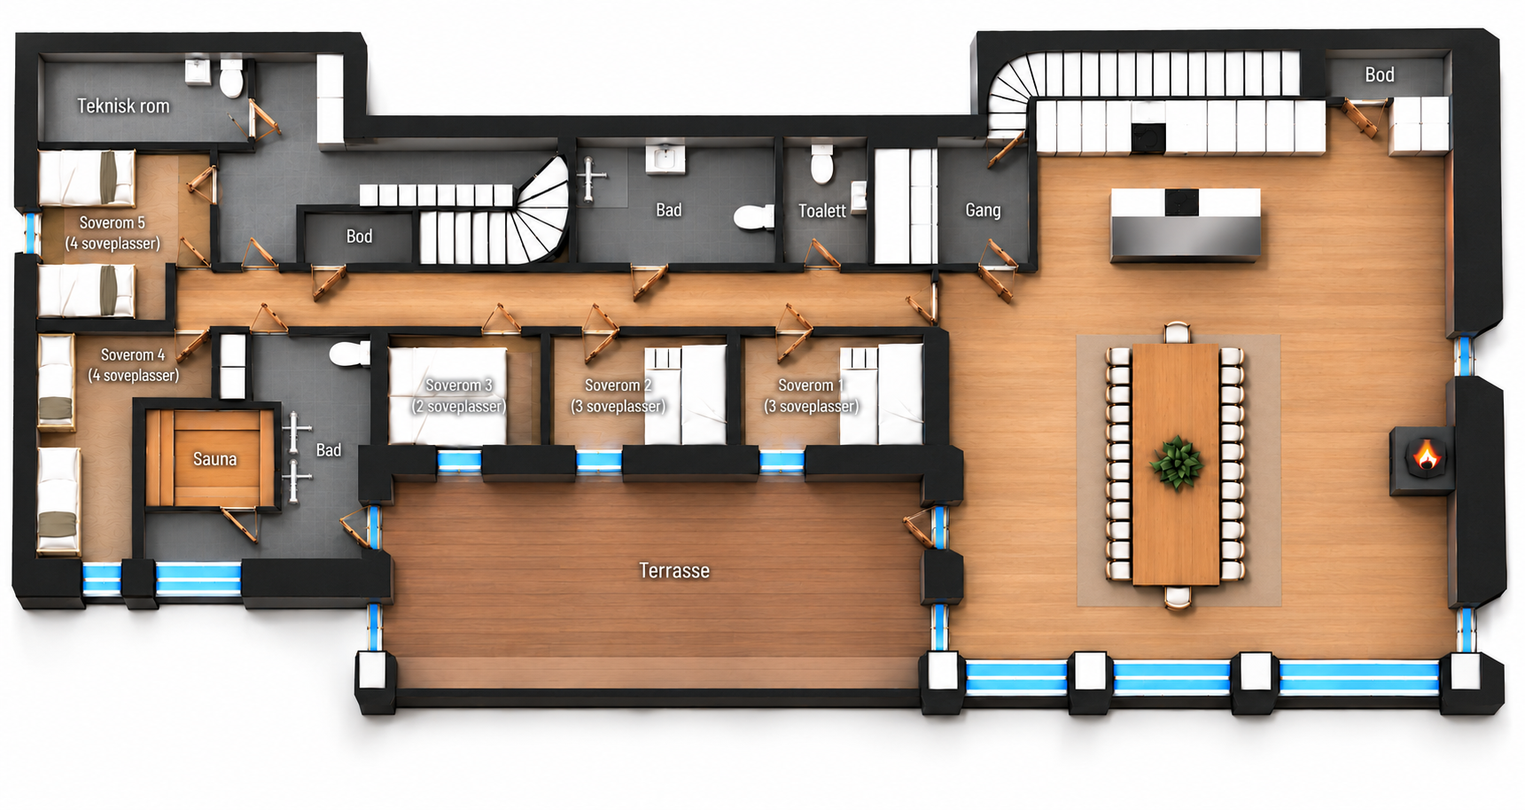
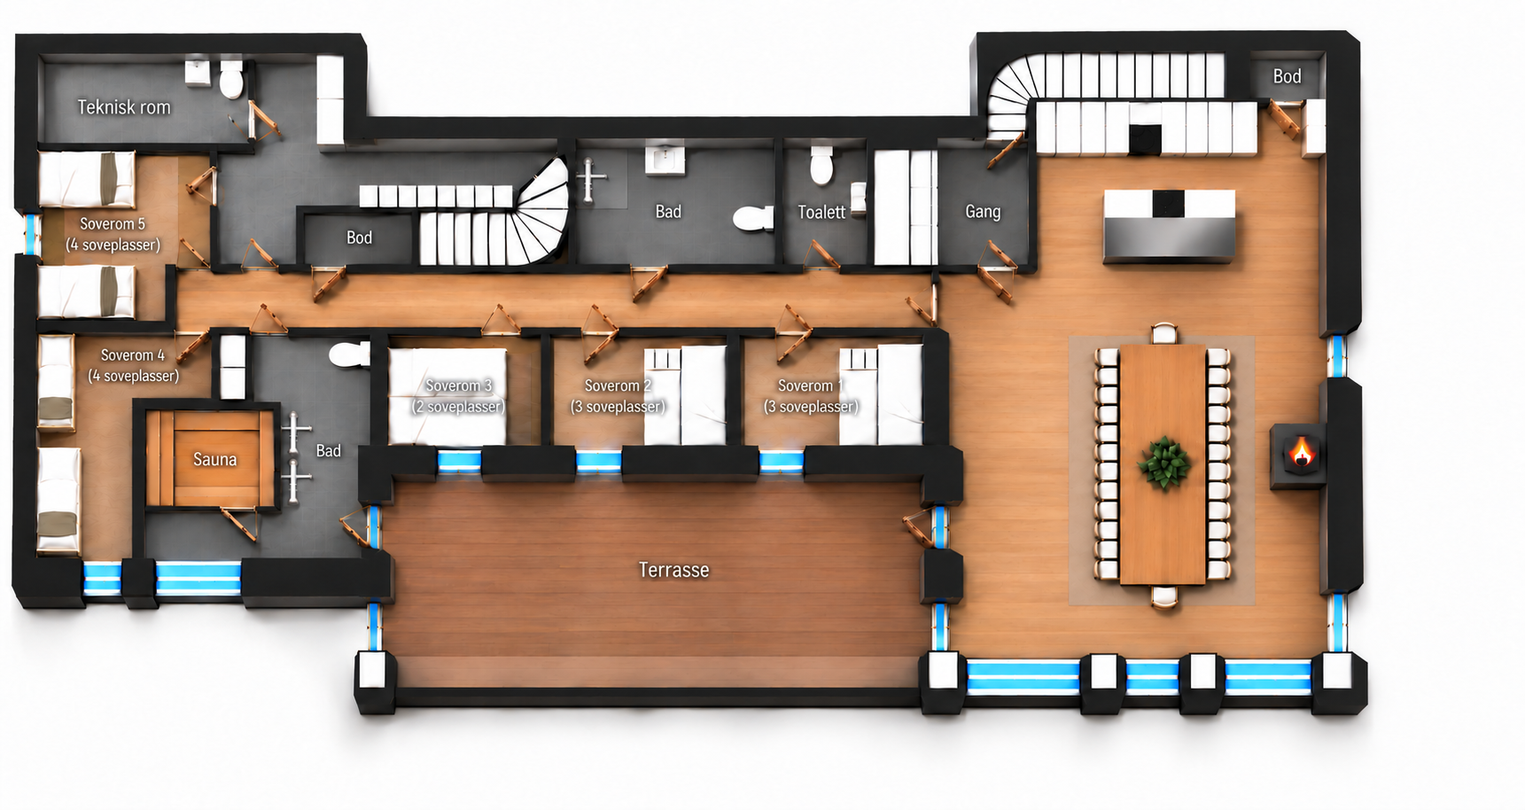
Update reserved nights and add returnable floor plan viewer

diff --git a/src/components/booking/BookingInbox.tsx b/src/components/booking/BookingInbox.tsx
@@ -90,7 +90,7 @@ export function OwnerInbox() {
       {view === "prices" ? <OwnerPriceCalendar prices={data.nightlyPrices} today={data.today} occupied={[...data.blocks, ...data.bookings.filter(b => b.status === "accepted")]} lang={lang} onSaved={reload} /> : <>
       <div className="bk-owner-stats"><span><b>{data.bookings.filter(b => b.status === "pending").length}</b>{w("Nye forespørsler", "Pending enquiries")}</span><span><b>{data.bookings.filter(b => b.status === "accepted").length}</b>{w("Bekreftede opphold", "Confirmed stays")}</span><span><b>{data.blocks.length}</b>{w("Blokkerte perioder", "Blocked periods")}</span></div>
       <div className="bk-inbox-layout"><aside className="bk-enquiries"><label>{w("Vis forespørsler", "Show enquiries")}<select value={filter} onChange={e => setFilter(e.target.value)}><option value="all">{w("Alle", "All")}</option>{(["pending", "accepted", "declined", "cancelled"] as BookingStatus[]).map(s => <option key={s} value={s}>{statusLabel(lang, s)}</option>)}</select></label>{!data.bookings.length && <p>{w("Nye forespørsler kommer hit. Åpne bookingsiden for å teste.", "New enquiries appear here. Open the booking page to test.")}</p>}{data.bookings.filter(b => filter === "all" || b.status === filter).map(b => <button className={`bk-enquiry ${selected === b.id ? "active" : ""}`} key={b.id} onClick={() => setSelected(b.id)}><span className={`bk-status ${b.status}`}>{statusLabel(lang, b.status)}</span><strong>{b.name}</strong><span>{formatDay(b.arrival, lang)} → {formatDay(b.departure, lang)}</span><small>{b.guests} {w("gjester", "guests")} · {b.messages.filter(m => m.author !== "system").length} {w("meldinger", "messages")}</small></button>)}</aside><div>{booking ? <><div className="bk-owner-actions">{booking.status === "pending" && <><button className="bk-primary" disabled={busy} onClick={() => void updateStatus("accepted")}>{w("Bekreft reservasjon", "Confirm reservation")}</button><button className="bk-secondary" disabled={busy} onClick={() => void updateStatus("declined")}>{w("Avslå", "Decline")}</button></>}{booking.status === "accepted" && <button className="bk-secondary" disabled={busy} onClick={() => void updateStatus("cancelled")}>{w("Avbestill reservasjon", "Cancel reservation")}</button>}{booking.status !== "accepted" && <button className="bk-text-button" disabled={busy} onClick={() => { if (window.confirm(w("Slette forespørselen og alle meldingene permanent?", "Permanently delete this enquiry and all messages?"))) void action({ action: "delete", id: selected }); }}>{w("Slett forespørsel", "Delete enquiry")}</button>}</div><Conversation key={booking.id} booking={booking} lang={lang} owner reload={reload} /></> : <div className="bk-panel bk-empty"><h2>{w("En god samtale er starten.", "Every stay starts with a conversation.")}</h2><p>{w("Velg en forespørsel for å lese ønskene, svare og bekrefte et opphold.", "Choose an enquiry to read the plans, reply and confirm a stay.")}</p><Link className="bk-primary" href="/booking">{w("Åpne bookingsiden", "Open booking page")} →</Link></div>}</div></div>
-      <section className="bk-panel bk-blocks"><div><p className="bk-kicker">{w("KALENDER", "CALENDAR")}</p><h2>{w("Hold av egne datoer.", "Keep dates for yourselves.")}</h2><p>{w("Legg også inn opphold bestilt andre steder. Kalenderen synkroniseres ikke med FINN. Periodene gjelder ankomstdagen til, men ikke inkludert, avreisedagen.", "Add stays booked elsewhere too. This calendar does not sync with FINN. Blocks include arrival day, up to but excluding departure day.")}</p></div><form onSubmit={async e => { e.preventDefault(); await action({ action: "block", arrival, departure, note }); }}><div className="bk-fields"><label>{w("Fra", "From")}<input type="date" required min={osloToday()} value={arrival} onChange={e => setArrival(e.target.value)} /></label><label>{w("Til", "Until")}<input type="date" required min={arrival || osloToday()} value={departure} onChange={e => setDeparture(e.target.value)} /></label></div><label>{w("Privat notat (valgfritt)", "Private note (optional)")}<input maxLength={300} value={note} onChange={e => setNote(e.target.value)} /></label><button className="bk-primary" disabled={busy}>{w("Blokker datoer", "Block dates")}</button></form><ul>{data.blocks.map(block => <li key={block.id}><span>{formatDay(block.arrival, lang)} → {formatDay(block.external ? lastReservedNight(block.departure) : block.departure, lang)}<small>{block.external ? w("Reservert via FINN", "Reserved on FINN") : block.note}</small></span>{!block.external && <button className="bk-secondary" disabled={busy} onClick={() => { if (window.confirm(w("Gjøre disse datoene tilgjengelige igjen?", "Make these dates available again?"))) void action({ action: "unblock", id: block.id }); }}>{w("Fjern blokkering", "Unblock")}</button>}</li>)}</ul></section>
+      <section className="bk-panel bk-blocks"><div><p className="bk-kicker">{w("KALENDER", "CALENDAR")}</p><h2>{w("Hold av egne datoer.", "Keep dates for yourselves.")}</h2><p>{w("Legg også inn opphold bestilt andre steder. Kalenderen synkroniseres ikke med FINN. Periodene gjelder ankomstdagen til, men ikke inkludert, avreisedagen.", "Add stays booked elsewhere too. This calendar does not sync with FINN. Blocks include arrival day, up to but excluding departure day.")}</p></div><form onSubmit={async e => { e.preventDefault(); await action({ action: "block", arrival, departure, note }); }}><div className="bk-fields"><label>{w("Fra", "From")}<input type="date" required min={osloToday()} value={arrival} onChange={e => setArrival(e.target.value)} /></label><label>{w("Til", "Until")}<input type="date" required min={arrival || osloToday()} value={departure} onChange={e => setDeparture(e.target.value)} /></label></div><label>{w("Privat notat (valgfritt)", "Private note (optional)")}<input maxLength={300} value={note} onChange={e => setNote(e.target.value)} /></label><button className="bk-primary" disabled={busy}>{w("Blokker datoer", "Block dates")}</button></form><ul>{data.blocks.map(block => <li key={block.id}><span>{formatDay(block.arrival, lang)} → {formatDay(block.external ? lastReservedNight(block.departure) : block.departure, lang)}<small>{block.external ? (block.id.startsWith("finn-") ? w("Reservert via FINN", "Reserved on FINN") : w("Reservert av eier", "Reserved by owner")) : block.note}</small></span>{!block.external && <button className="bk-secondary" disabled={busy} onClick={() => { if (window.confirm(w("Gjøre disse datoene tilgjengelige igjen?", "Make these dates available again?"))) void action({ action: "unblock", id: block.id }); }}>{w("Fjern blokkering", "Unblock")}</button>}</li>)}</ul></section>
     </>}
     </>}
   </main></div>;

diff --git a/src/app/globals.css b/src/app/globals.css
@@ -1503,13 +1503,23 @@ footer p { margin: 15px 0 0; font-size: 12px; }
 .retreat-floor-plans-selector button span { color: #d8b687; font-size: .65rem; }
 .retreat-floor-plans-selector button[aria-pressed="true"] { background: #d8b687; color: #171e28; }
 .retreat-floor-plans-selector button[aria-pressed="true"] span { color: #171e28; }
-.retreat-floor-plans-selector button:focus-visible, .retreat-floor-plan-view a:focus-visible { outline: 3px solid #fff; outline-offset: 4px; }
+.retreat-floor-plans-selector button:focus-visible, .retreat-floor-plan-view button:focus-visible { outline: 3px solid #fff; outline-offset: 4px; }
 .retreat-floor-plan-view { margin: 0; }
-.retreat-floor-plan-view > a { display: block; padding: clamp(.5rem, 2vw, 1.5rem); background: #fff; }
+.retreat-floor-plan-open { width: 100%; border: 0; color: inherit; cursor: zoom-in; }
+.retreat-floor-plan-view > .retreat-floor-plan-open { display: block; padding: clamp(.5rem, 2vw, 1.5rem); background: #fff; }
 .retreat-floor-plan-view img { display: block; width: 100%; height: auto; max-height: 78svh; object-fit: contain; }
 .retreat-floor-plan-view figcaption { display: flex; align-items: center; justify-content: space-between; gap: 1rem; padding-top: 1.2rem; }
 .retreat-floor-plan-view figcaption span { font-family: var(--serif); font-size: 1.5rem; }
-.retreat-floor-plan-view figcaption a { color: #d8b687; font-size: .65rem; font-weight: 800; letter-spacing: .08em; }
+.retreat-floor-plan-view figcaption button { border: 0; padding: 0; background: transparent; color: #d8b687; font: inherit; font-size: .65rem; font-weight: 800; letter-spacing: .08em; cursor: pointer; }
+.retreat-floor-plan-viewer { position: fixed; inset: 0; width: 100vw; max-width: none; height: 100dvh; max-height: none; margin: 0; border: 0; padding: 0; overflow: hidden; background: #17202c; color: #fff; }
+.retreat-floor-plan-viewer[open] { display: grid; grid-template-rows: auto minmax(0, 1fr); }
+.retreat-floor-plan-viewer::backdrop { background: #17202c; }
+.retreat-floor-plan-viewer > header { display: flex; align-items: center; justify-content: space-between; gap: 1rem; padding: 1rem clamp(1rem, 3vw, 3rem); }
+.retreat-floor-plan-viewer h2 { margin: 0; font-family: var(--serif); font-size: clamp(1.3rem, 3vw, 2rem); font-weight: 500; }
+.retreat-floor-plan-viewer header button { min-height: 44px; border: 1px solid #d8b687; padding: .6rem 1rem; background: transparent; color: #fff; font: inherit; cursor: pointer; }
+.retreat-floor-plan-viewer header button:focus-visible { outline: 3px solid #fff; outline-offset: 3px; }
+.retreat-floor-plan-viewer-image { position: relative; min-height: 0; background: #fff; }
+.retreat-floor-plan-viewer-image img { object-fit: contain; }
 @media (max-width: 650px) {
   .retreat-floor-plans-heading { display: block; }
   .retreat-floor-plans-heading > p { margin-top: 1.2rem; }
@@ -1522,7 +1532,7 @@ footer p { margin: 15px 0 0; font-size: 12px; }
   .retreat-floor-plans-heading h2 { font-size: clamp(2rem, 3vw, 3rem); }
   .retreat-floor-plans-selector button { padding-block: .8rem; }
   .retreat-floor-plan-view { display: flex; flex-direction: column; min-height: 0; }
-  .retreat-floor-plan-view > a { flex: 1; min-height: 0; padding: .5rem; }
+  .retreat-floor-plan-view > .retreat-floor-plan-open { flex: 1; min-height: 0; padding: .5rem; }
   .retreat-floor-plan-view img { width: 100%; height: 100%; max-height: 100%; object-fit: contain; }
   .retreat-floor-plan-view figcaption { padding-top: .6rem; }
   .retreat-floor-plan-view figcaption span { font-size: 1.2rem; }

diff --git a/src/components/FloorPlans.tsx b/src/components/FloorPlans.tsx
@@ -1,7 +1,7 @@
 "use client";
 
 import Image from "next/image";
-import { useState } from "react";
+import { useEffect, useRef, useState } from "react";
 import type { Language } from "./useSiteLanguage";
 import mainFloor from "../../public/images/floor-plan-main.png";
 import lowerFloor from "../../public/images/floor-plan-lower.png";
@@ -18,10 +18,23 @@ const floors = [
 
 export function FloorPlans({ language }: { language: Language }) {
   const [selected, setSelected] = useState("main");
+  const [expanded, setExpanded] = useState(false);
+  const viewer = useRef<HTMLDialogElement>(null);
   const floor = floors.find((item) => item.id === selected) ?? floors[1];
   const nb = language === "nb";
   const name = nb ? floor.nb : floor.en;
   const planImage = nb ? floor.image : floor.imageEnglish;
+  const openViewer = () => {
+    viewer.current?.showModal();
+    setExpanded(true);
+  };
+
+  useEffect(() => {
+    if (!expanded) return;
+    const previousOverflow = document.body.style.overflow;
+    document.body.style.overflow = "hidden";
+    return () => { document.body.style.overflow = previousOverflow; };
+  }, [expanded]);
 
   return <section className="retreat-floor-plans" aria-labelledby="floor-plans-title">
     <div className="retreat-floor-plans-heading">
@@ -32,10 +45,14 @@ export function FloorPlans({ language }: { language: Language }) {
       {floors.map((item, index) => <button key={item.id} type="button" aria-pressed={selected === item.id} aria-controls="floor-plan-view" onClick={() => setSelected(item.id)}><span>0{index + 1}</span>{nb ? item.nb : item.en}</button>)}
     </div>
     <figure id="floor-plan-view" className="retreat-floor-plan-view">
-      <a href={planImage.src} target="_blank" rel="noreferrer" aria-label={nb ? `Åpne hele plantegningen: ${name}` : `Open full floor plan: ${name}`}>
+      <button className="retreat-floor-plan-open" type="button" onClick={openViewer} aria-haspopup="dialog" aria-label={nb ? `Åpne hele plantegningen: ${name}` : `Open full floor plan: ${name}`}>
         <Image key={`${floor.id}-${language}`} src={planImage} alt={nb ? `Plantegning – ${name}, Turu Crown` : `Floor plan – ${name}, Turu Crown`} unoptimized sizes="(max-width: 900px) 100vw, 90vw" />
-      </a>
-      <figcaption><span aria-live="polite">{name}</span><a href={planImage.src} target="_blank" rel="noreferrer">{nb ? "SE HELE PLANTEGNINGEN" : "VIEW FULL FLOOR PLAN"} ↗</a></figcaption>
+      </button>
+      <figcaption><span aria-live="polite">{name}</span><button type="button" onClick={openViewer} aria-haspopup="dialog">{nb ? "SE HELE PLANTEGNINGEN" : "VIEW FULL FLOOR PLAN"} ↗</button></figcaption>
     </figure>
+    <dialog ref={viewer} className="retreat-floor-plan-viewer" aria-labelledby="floor-plan-viewer-title" onClose={() => setExpanded(false)}>
+      <header><h2 id="floor-plan-viewer-title">{name}</h2><button type="button" onClick={() => viewer.current?.close()}>{nb ? "Lukk og gå tilbake" : "Close and go back"} ×</button></header>
+      <div className="retreat-floor-plan-viewer-image">{expanded && <Image src={planImage} alt={nb ? `Hele plantegningen – ${name}, Turu Crown` : `Full floor plan – ${name}, Turu Crown`} fill unoptimized sizes="100vw" />}</div>
+    </dialog>
   </section>;
 }

diff --git a/src/lib/booking/model.ts b/src/lib/booking/model.ts
@@ -14,7 +14,8 @@ export type NightlyPrices = Record<string, number>;
 export type OwnerAuth = { passwordHash?: string; passwordSalt?: string; sessionVersion?: string; resetHash?: string; resetExpires?: number };
 export type BookingState = { bookings: Booking[]; blocks: Block[]; limits: Record<string, number[]>; notices: Notice[]; nightlyPrices?: NightlyPrices; ownerAuth?: OwnerAuth };
 export const emptyState = (): BookingState => ({ bookings: [], blocks: [], limits: {}, notices: [], nightlyPrices: {} });
-// Existing FINN reservations, recorded as occupied nights. Departure is exclusive.
+// Fixed reservations supplied by the owner, including existing FINN stays.
+// Departure is exclusive, so the last occupied night is the previous day.
 export const finnReservations: Block[] = [
   { id: "finn-2026-11-13", arrival: "2026-11-13", departure: "2026-11-15", note: "Reservert via FINN", external: true },
   { id: "finn-2026-11-27", arrival: "2026-11-27", departure: "2026-11-29", note: "Reservert via FINN", external: true },
@@ -22,7 +23,8 @@ export const finnReservations: Block[] = [
   { id: "finn-2026-12-18", arrival: "2026-12-18", departure: "2026-12-20", note: "Reservert via FINN", external: true },
   { id: "finn-2026-12-23", arrival: "2026-12-23", departure: "2026-12-26", note: "Reservert via FINN", external: true },
   { id: "finn-2026-12-30", arrival: "2026-12-30", departure: "2027-01-01", note: "Reservert via FINN", external: true },
-  { id: "finn-2027-01-22", arrival: "2027-01-22", departure: "2027-01-24", note: "Reservert via FINN", external: true },
+  { id: "owner-2027-01-12", arrival: "2027-01-12", departure: "2027-01-15", note: "Reservert av eier", external: true },
+  { id: "owner-2027-03-11", arrival: "2027-03-11", departure: "2027-03-13", note: "Reservert av eier", external: true },
 ];
 export class BookingError extends Error {
   status: number;

diff --git a/docs/floor-plans.md b/docs/floor-plans.md
@@ -1,5 +1,44 @@
 # Three floor plans
 
+## Narrower lower-floor module and full-screen return, 30 October 2026
+
+The owner marked a narrower right-hand kitchen/dining module. Its right exterior wall, fireplace and adjacent fittings move inward; the bedroom/bathroom/terrace portion remains intact. Front glazing uses the main-floor facade as its visual reference. The table retains26chairs. Final workspace files are `public/images/floor-plan-lower.png` (source `exec-0edca386-5a68-450b-8d76-99e19f101754.png`) and `public/images/floor-plan-lower-en.png` (source `exec-291d1f12-2f6e-4326-93a2-54b62769830b.png`). Built-in imagegen edit mode. Selected results visually inspected.
+
+Both image and full-plan action now open an in-page native dialog rather than another image tab. A bilingual Close and go back button or Escape returns to the same selected floor. Body scrolling is restored on close.
+
+Exact prompt sequence:
+
+### narrowLower-nbPrompt
+
+```text
+Use case: precise-object-edit. Image1 is the current LOWER FLOOR plan edit target. Image2 is MAIN FLOOR reference ONLY for FRONT WINDOW grouping/style on the right-hand module. Image3 is owner red-line reference for desired NARROWER right module. Make ONLY requested architectural correction: narrow the rightmost kitchen/dining module by bringing its entire RIGHT exterior wall LEFT about110pixels in the1721px-wide edit target (new outer-right edge approximatelyx1580 ratherthan1690), matching the red line in Image3. Keep the module's LEFT junction to hallway/terrace fixed and its TOP/BOTTOM levels fixed. Thus remove excess floor width at the right of dining table/island. Move the right-wall fireplace and side windows with that wall. Adapt only far-right kitchen/storage fittings to stay inside the narrower footprint. Keep table,26chairs,island present and realistic; do not squash or scale furniture. The dining table MUST retain EXACTLY26chairs:12eachlongside+1eachend, current table size unchanged. Front/bottom windows of this right module must closely match sequence/grouping/proportions of FRONT/BOTTOM windows in the MAIN-FLOOR right module inImage2, with consistent dark wall piers and bluewhite glazing. Main reference must NOT replace the lower plan or its furniture. Keep the ENTIRE left bedroom/bathroom/stair/terrace portion unchanged, all5bedrooms and counts, all existing text verbatim in samefont/size, all other objects/geometry/materials unchanged. Full canvas same dimensions and framing, white space may increase at right after narrowing. Do NOT crop, resize entire image, add red marks, remove rooms or chairs, change stairs or change labels. Keep recent crisp detail quality. Preserve Norwegian labels: Soverom1(3soveplasser),2(3),3(2),4(4),5(4),Teknisk rom,Bod(two),Bad(two),Sauna,Toalett,Gang,Terrasse.
+```
+
+### narrowLower-enPrompt
+
+```text
+Use case: precise-object-edit. Image1 is the current LOWER FLOOR plan edit target. Image2 is MAIN FLOOR reference ONLY for FRONT WINDOW grouping/style on the right-hand module. Image3 is owner red-line reference for desired NARROWER right module. Make ONLY requested architectural correction: narrow the rightmost kitchen/dining module by bringing its entire RIGHT exterior wall LEFT about110pixels in the1721px-wide edit target (new outer-right edge approximatelyx1580 ratherthan1690), matching the red line in Image3. Keep the module's LEFT junction to hallway/terrace fixed and its TOP/BOTTOM levels fixed. Thus remove excess floor width at the right of dining table/island. Move the right-wall fireplace and side windows with that wall. Adapt only far-right kitchen/storage fittings to stay inside the narrower footprint. Keep table,26chairs,island present and realistic; do not squash or scale furniture. The dining table MUST retain EXACTLY26chairs:12eachlongside+1eachend, current table size unchanged. Front/bottom windows of this right module must closely match sequence/grouping/proportions of FRONT/BOTTOM windows in the MAIN-FLOOR right module inImage2, with consistent dark wall piers and bluewhite glazing. Main reference must NOT replace the lower plan or its furniture. Keep the ENTIRE left bedroom/bathroom/stair/terrace portion unchanged, all5bedrooms and counts, all existing text verbatim in samefont/size, all other objects/geometry/materials unchanged. Full canvas same dimensions and framing, white space may increase at right after narrowing. Do NOT crop, resize entire image, add red marks, remove rooms or chairs, change stairs or change labels. Keep recent crisp detail quality. Preserve English labels: Bedroom1(Sleeps3),2(3),3(2),4(4),5(4),Utility room,Storage(two),Bathroom(two),Sauna,Toilet,Hallway,Terrace.
+```
+
+### narrowWindows-nbPrompt
+
+```text
+Use case: precise-object-edit. Image1 is already narrowed LOWER FLOOR edit target. Image2 is MAIN FLOOR reference only for right-module FRONT/BOTTOM facade glazing. Edit ONLY the bottom/front window strip of the right kitchen/dining module in Image1: it should have FOUR distinct window GROUPS with dark structural piers, closely matching the main-floor front facade sequence in Image2: a wider left group, two narrower central groups, and a wider right group, fitted within the current narrowed module width. The current lower-floor three equal groups are incorrect. Match the blue-white glass/window frame design of Image2. Keep right-module outer footprint and rightwall position EXACTLY as Image1, keep all other windows including sidewindowsunchanged. Preserve ALL rooms,walls,doors,kitchen,storage,island,fireplace,table, EXACTLY26chairs(12eachlongside+1eachend), all5bedrooms and capacities, ALL text verbatim currentlanguagefont/size, materials, canvas and framing. Do not widen rightmodule or crop/changeotherobjects. Only change number/grouping/proportions of frontbottomwindows inrightmodule to4groups like mainfloor.
+```
+
+### narrowWindows-enPrompt
+
+```text
+Use case: precise-object-edit. Image1 is already narrowed LOWER FLOOR edit target. Image2 is MAIN FLOOR reference only for right-module FRONT/BOTTOM facade glazing. Edit ONLY the bottom/front window strip of the right kitchen/dining module in Image1: it should have FOUR distinct window GROUPS with dark structural piers, closely matching the main-floor front facade sequence in Image2: a wider left group, two narrower central groups, and a wider right group, fitted within the current narrowed module width. The current lower-floor three equal groups are incorrect. Match the blue-white glass/window frame design of Image2. Keep right-module outer footprint and rightwall position EXACTLY as Image1, keep all other windows including sidewindowsunchanged. Preserve ALL rooms,walls,doors,kitchen,storage,island,fireplace,table, EXACTLY26chairs(12eachlongside+1eachend), all5bedrooms and capacities, ALL text verbatim currentlanguagefont/size, materials, canvas and framing. Do not widen rightmodule or crop/changeotherobjects. Only change number/grouping/proportions of frontbottomwindows inrightmodule to4groups like mainfloor.
+```
+
+### narrowWindowsEnFinalPrompt
+
+```text
+Use case: precise-object-edit. IMAGE1 English lower-floor plan is EDIT TARGET. IMAGE2 Norwegian lower-floor plan is EXACT front-window grouping reference ONLY. IMAGE1 currently has THREE front/bottom window groups on right dining module; this must be FOUR like IMAGE2. Replace ONLY that short bottom/front facade strip (between terrace junction atx1060 andbottomrightcorner atx1540) with FOUR bluewhite glazed window groups separated by THREE distinct internal dark wall piers with white rectangular caps, plus the existing2cornerpiers. Count FOUR separate glass spans /THREE internalpiers, not3glassspans. Match Image2 grouping but fit current width. Preserve EVERYTHING outside this bottomwindowstrip EXACTLY, especially Englishlabels,currentnarrowfootprint,5bedrooms,26chairs,table,island,kitchen,fireplace,stairs,terraceandallsidewindows. Do not change canvasdimensions, lighting, furniture or text. NevercopyNorwegianlabels. Only correct3windowgroups to4with3internalpiers.
+```
+
+
 ## Sharper floor-plan details, 30 October 2026
 
 Used built-in imagegen edit mode on all six language/floor images to restore clearer material texture, furniture edges and lettering while preserving room layout, label wording and sleeping counts. Requested 4K in prompts, but the tool returned native-sized images (roughly1520–1720px wide), so these files must not be described as4K. No deterministic bitmap enlargement was applied. Selected outputs were visually compared with sources; all26lower-floor diningchairs retained. Full-size PNG viewing remains available without image compression.

diff --git a/docs/booking-setup.md b/docs/booking-setup.md
@@ -16,10 +16,14 @@ before opening real bookings. Pending enquiries do not reserve dates. Confirmed
 stays and owner blocks make nights unavailable; checkout day can be another
 guest's arrival day. Bookings elsewhere must be blocked manually.
 The owner-provided FINN stays on 13–14 and 27–28 November, 4–5, 18–19,
-23–25 and 30–31 December 2026, and 22–23 January 2027 are built into the
-calendar as unavailable nights. These fixed dates appear in the owner inbox
-as read-only FINN reservations. Update them in `src/lib/booking/model.ts` if a
-FINN stay changes; new reservations still require a manual block.
+23–25 and 30–31 December 2026 are built into the calendar as unavailable nights.
+On 30 October 2026 the owner replaced the 22–23 January 2027 reservation with
+the nights of 12–14 January and added 11–12 March 2027, explicitly including
+the last dates as occupied nights. Their exclusive checkout dates are
+15 January and 13 March. These new fixed holds are labelled Reserved by owner;
+the earlier FINN stays retain their FINN labels. All appear read-only in the
+owner inbox. Update fixed dates in `src/lib/booking/model.ts` when the owner
+changes them; other new reservations still require a manual block.
 
 ## Local preview
 

diff --git a/README.md b/README.md
@@ -51,9 +51,10 @@ the storage and account setup described below.
 Real online enquiries still require permanent storage and email delivery to be
 connected. See [booking setup](docs/booking-setup.md) for local preview credentials,
 production setup and tests. The booking preview does not synchronize with FINN.
-The owner-provided FINN reservations for November and December 2026 and January
-2027 are recorded as unavailable nights in the booking calendar. New FINN
-reservations must still be added manually.
+The owner-provided FINN reservations for November and December 2026 and owner
+holds for 12–14 January and 11–12 March 2027 are recorded as unavailable nights
+in the booking calendar, including the last listed night. The former 22–23
+January hold has been removed. New reservations must still be added manually.
 
 ## Commands
 
